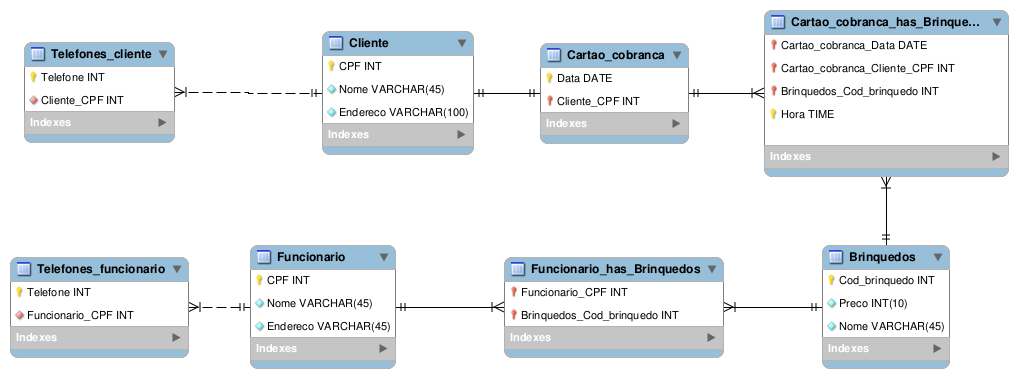
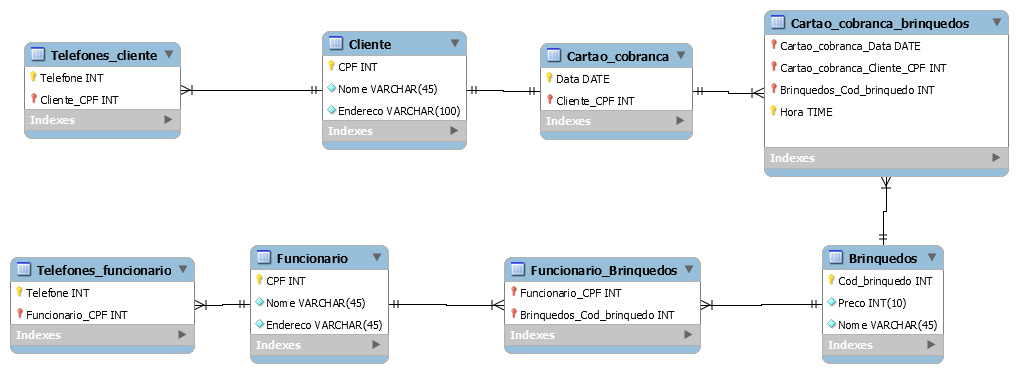
script ddl

diff --git a/README.md b/README.md
@@ -88,7 +88,73 @@ O parque de diversões 'SmashLand' é um parque moderno mas muito ganancioso. Se
 ### Funcionários que visitaram os brinquedos em que trabalham como clientes
 <img style ="border: 2px solid black"  src="equacoesAlgebraRelacional\Eq4.jpg"></img>
 
+## Consultas em SQL
 
+## Script DDL
+
+```sql
+create database bd1;
+
+use bd1;
+
+CREATE TABLE Cliente (
+  CPF INT NOT NULL PRIMARY KEY,
+  Nome VARCHAR(45) NOT NULL,
+  Endereco VARCHAR(100) NOT NULL
+);
+
+CREATE TABLE Brinquedos (
+  Cod_brinquedo INT NOT NULL PRIMARY KEY,
+  Preco INT(10) NOT NULL,
+  Nome VARCHAR(45) NOT NULL
+);
+
+CREATE TABLE Funcionario (
+  CPF INT NOT NULL PRIMARY KEY,
+  Nome VARCHAR(45) NOT NULL,
+  Endereco VARCHAR(45) NOT NULL
+);
+
+CREATE TABLE Funcionario_Brinquedos (
+  Funcionario_CPF INT NOT NULL,
+  Brinquedos_Cod_brinquedo INT NOT NULL,
+  CONSTRAINT pk_Funcionario_Brinquedos PRIMARY KEY (Funcionario_CPF, Brinquedos_Cod_brinquedo),
+  CONSTRAINT fk_Funcionario_CPF FOREIGN KEY (Funcionario_CPF) REFERENCES Funcionario(CPF),
+  CONSTRAINT fk_Brinquedos_Cod_brinquedo_funcionarios  FOREIGN KEY (Brinquedos_Cod_brinquedo) REFERENCES Brinquedos(Cod_brinquedo)
+);
+
+CREATE TABLE Cartao_cobranca (
+  Data DATE NOT NULL,
+  Cliente_CPF INT NOT NULL,
+  CONSTRAINT pk_Cartao_cobranca PRIMARY KEY (Data, Cliente_CPF),
+  CONSTRAINT fk_Cliente_CPF FOREIGN KEY (Cliente_CPF) REFERENCES Cliente(CPF)
+);
+
+CREATE TABLE Cartao_cobranca_brinquedos (
+  Cartao_cobranca_Data DATE NOT NULL,
+  Cartao_cobranca_Cliente_CPF INT NOT NULL,
+  Brinquedos_Cod_brinquedo INT NOT NULL,
+  Hora TIME NOT NULL,
+  CONSTRAINT pk_Cartao_cobranca_brinquedos PRIMARY KEY (Cartao_cobranca_Data, Cartao_cobranca_Cliente_CPF, Brinquedos_Cod_brinquedo, Hora),
+  CONSTRAINT fk_Cartao_cobranca_Data FOREIGN KEY (Cartao_cobranca_Data)  REFERENCES Cartao_cobranca(Data),
+  CONSTRAINT fk_Cartao_cobranca_Cliente_CPF FOREIGN KEY (Cartao_cobranca_Cliente_CPF) REFERENCES Cartao_cobranca(Cliente_CPF),
+  CONSTRAINT fk_Brinquedos_Cod_brinquedo_cartao_cobranca FOREIGN KEY (Brinquedos_Cod_brinquedo) REFERENCES Brinquedos(Cod_brinquedo)
+);
+
+CREATE TABLE Telefones_funcionario (
+  Telefone INT NOT NULL,
+  Funcionario_CPF INT NOT NULL,
+  CONSTRAINT pk_Telefones_funcionario PRIMARY KEY (Telefone, Funcionario_CPF),
+  CONSTRAINT fk_Funcionario_CPF_tel FOREIGN KEY (Funcionario_CPF) REFERENCES Funcionario(CPF)
+);
+
+CREATE TABLE Telefones_cliente (
+  Telefone INT NOT NULL,
+  Cliente_CPF INT NOT NULL,
+  CONSTRAINT pk_Telefones_cliente PRIMARY KEY (Telefone, Cliente_CPF),
+  CONSTRAINT fk_cliente_cpf_tel FOREIGN KEY (Cliente_CPF) REFERENCES Cliente(CPF)
+);
+```
 
 
 
